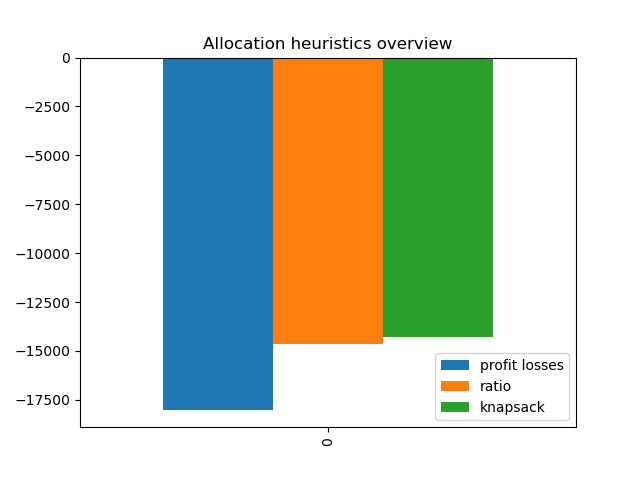
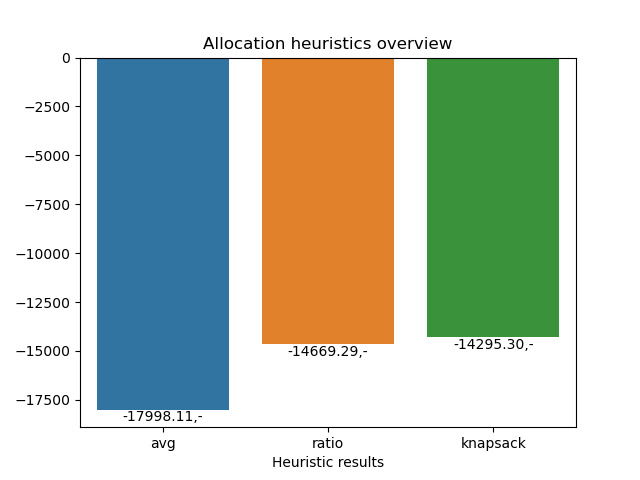
plot heuristic scenarios results

diff --git a/final/belsimpel.py b/final/belsimpel.py
@@ -381,7 +381,7 @@ df_ranked_by_ratio = df_products.sort_values(by="rank_by_ratio")
 
 df_current_warehouse = pd.DataFrame(columns=df_ranked_by_profit_loss.columns)
 df_rental_warehouse = pd.DataFrame(columns=df_ranked_by_profit_loss.columns)
-df_scenarios = pd.DataFrame([{"total_avg_daily_profit_losses_1": 0, "total_avg_daily_profit_losses_ratio": 0, "total_avg_daily_profit_losses_knapsack": 0}])
+df_scenarios = pd.DataFrame()
 
 def optimize_by_rank(index):
     global pickup_boxes_theshold
@@ -420,18 +420,19 @@ def optimize_by_rank(index):
 # 2.2 heuristic by highest profit loss
 print("Run ranking heuristic by highest profit loss")
 [optimize_by_rank(index) for index in df_ranked_by_profit_loss.index]
-df_scenarios["total_avg_daily_profit_losses_1"] = df_rental_warehouse["average_daily_profit_loss"].sum()
+df_scenarios.loc[0, "avg"] = df_rental_warehouse["average_daily_profit_loss"].sum()
 
 #Reinitialize variables to run the ratio scenario
 df_current_warehouse = pd.DataFrame(columns=df_ranked_by_ratio.columns)
 df_rental_warehouse = pd.DataFrame(columns=df_ranked_by_ratio.columns)
+
 current_pickup_boxes_in_storage = 0
 current_product_couples = product_couples.copy()
 
 # 2.3 heuristic by highest profit loss
 print("Run ranking heuristic by ratio of the average daily profit loss / number of pick-up boxes")
 [optimize_by_rank(index) for index in df_ranked_by_ratio.index]
-df_scenarios["total_avg_daily_profit_losses_ratio"] = df_rental_warehouse["average_daily_profit_loss"].sum()
+df_scenarios.loc[0, "ratio"] = df_rental_warehouse["average_daily_profit_loss"].sum()
 
 # 2.4 solving the integer problem
 # sources: 
@@ -470,16 +471,15 @@ knapsack_model.addConstrs((x.sum(i, "*") <= x.sum(i2, "*") for i, i2 in rel), na
 
 knapsack_model.optimize()
 
-allocated = [i for i in range(N) if x[i].X > 0.5] 
 not_allocated = [i for i in range(N) if x[i].X < 0.5]   
-print(len(allocated), "products are allocated to the current warehouse")     
-print(len(not_allocated), "products are allocated to the rental warehouse")
-df_scenarios["total_avg_daily_profit_losses_knapsack"] = df_products.loc[not_allocated, "average_daily_profit_loss"].sum()
+df_scenarios.loc[0, "knapsack"] = df_products.loc[not_allocated, "average_daily_profit_loss"].sum()
 
-df_scenarios.plot(kind="bar", width=1)
-plt.title("Allocation heuristics overview")
-plt.legend(labels=["profit losses", "ratio", "knapsack"])
-plt.savefig(os.path.join(sys.path[0], "plots", "overview_heuristics.png"))
+fig, ax = plt.subplots()
+sns.barplot(df_scenarios)
+ax.bar_label(ax.containers[-1], padding=0.5, fmt='%.2f,-')
+ax.set_title("Allocation heuristics overview")
+ax.set_xlabel("Heuristic results")
+fig.savefig(os.path.join(sys.path[0], "plots", "overview_heuristics.png"))
 plt.close()
 
 total_time = datetime.datetime.now() - start_time

diff --git a/final/graphs.py b/final/graphs.py
@@ -1,7 +1,6 @@
 import os
 import sys
 import numpy as np
-import seaborn as sns
 import matplotlib.pyplot as plt
 
 plot_folder_path = os.path.join(sys.path[0], "plots")
@@ -10,7 +9,6 @@ class Graphs:
     def __init__(self):
         if os.path.isdir(plot_folder_path) == False:
             os.makedirs(plot_folder_path)
-
 
     def plot_error_bar(self, x_array, y_array, error_array, xlabel, ylabel, plot_title, image_title, ecolor=None):
         x = np.arange(0, len(x_array), 1)
@@ -48,7 +46,6 @@ class Graphs:
             label_class = classes[index]
             plt.bar(x_class, y_class, 0.4, label=label_class)
 
-
         plt.xticks(X_axis, classes)
         plt.xlabel("Product classes")
         plt.ylabel("Number of products")
@@ -65,7 +62,6 @@ class Graphs:
             y_class = sum(df)
             label_class = classes[index]
             plt.bar(x_class, y_class, 0.4, label=label_class)
-
 
         plt.xticks(X_axis, classes)
         plt.xlabel("Product classes")
